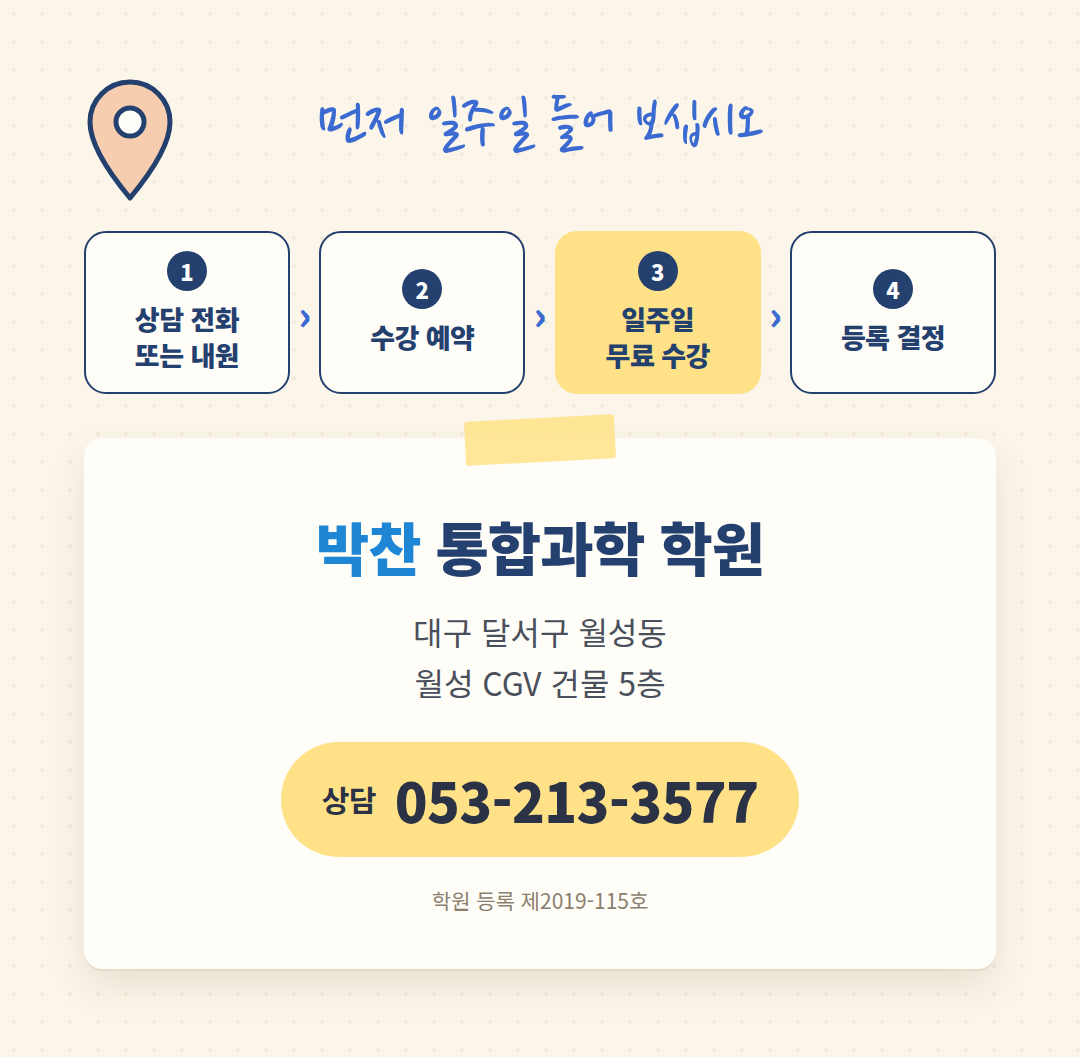
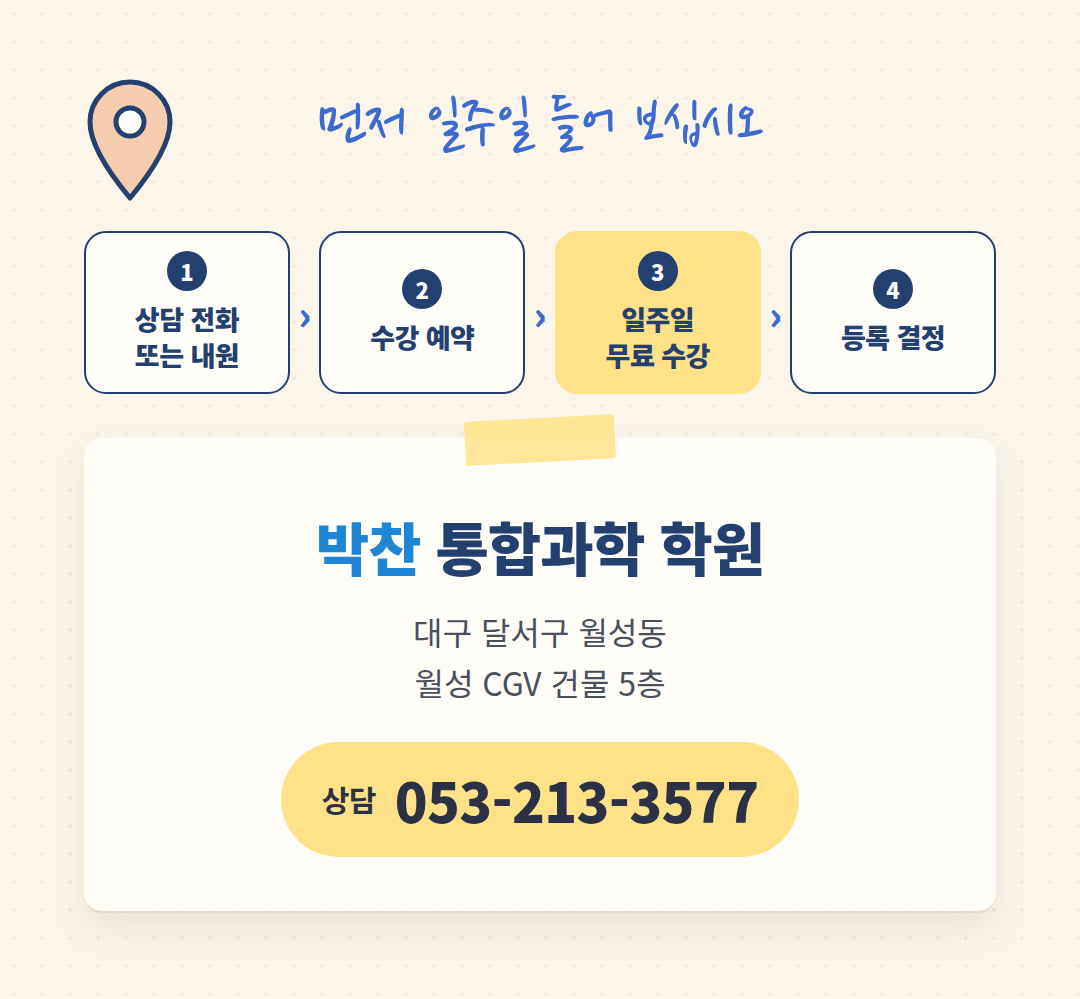
marketing: blog-16 로드맵 화살표·교습비 절·등록번호 빼기
교습비·등록번호는 글 맨 아래 작은 글씨로 따로 넣을 예정(자리 표시만 둠).

Claude-Session: https://claude.ai/code/session_01WC7EVNFFJZDdwaC3HYBAmj

diff --git a/parkchan-science/marketing/blog-16/kit.html b/parkchan-science/marketing/blog-16/kit.html
@@ -169,11 +169,6 @@ mark{background:var(--soft);color:var(--ink);outline:1px solid var(--gold);borde
 
 【사진 7 · 07_free.png】
 
-【소제목 · 인용구】 교습비
-
-고1 예비반 교습비: 월 31만 7,000원 (주 2회)
-학원 등록 제2019-115호
-
 【소제목 · 인용구】 오시는 길
 
 대구 달서구 월성동
@@ -190,7 +185,9 @@ mark{background:var(--soft);color:var(--ink);outline:1px solid var(--gold);borde
 
 감사합니다.
 
-박찬 드림</textarea><button class="cp big" data-copy="bodyTxt">본문 복사</button>
+박찬 드림
+
+【확인 필요 · 맨 아래 작은 글씨: 등록번호 · 총 교습시간 · 교습비 — 원장님 사진 받은 뒤 채움】</textarea><button class="cp big" data-copy="bodyTxt">본문 복사</button>
 <p class="note">【 】 표시 줄은 붙여 넣은 뒤 아래 순서대로 바꿉니다. 확인할 칸은 모두 채웠습니다.</p></section>
 <section class="box"><h2>③ 태그 — 하나씩 입력 후 Enter</h2><div class="tags"><span>월성동과학학원</span><span>대구과학학원</span><span>달서구과학학원</span><span>월성동학원</span><span>월성동통합과학</span><span>대구통합과학학원</span><span>통합과학학원</span><span>고1예비반</span><span>예비고1</span><span>중3과학</span><span>고1통합과학</span><span>통합과학</span><span>과학학원</span><span>월배과학학원</span><span>진천동과학학원</span><span>상인동과학학원</span><span>중등부과학</span><span>고3수능반</span><span>박찬통합과학학원</span></div><button class="cp big" data-copy="tagTxt">태그 복사(띄어쓰기로 구분)</button><textarea id="tagTxt" readonly style="display:none">월성동과학학원 대구과학학원 달서구과학학원 월성동학원 월성동통합과학 대구통합과학학원 통합과학학원 고1예비반 예비고1 중3과학 고1통합과학 통합과학 과학학원 월배과학학원 진천동과학학원 상인동과학학원 중등부과학 고3수능반 박찬통합과학학원</textarea></section>
 <section class="box"><h2>④ 네이버 글쓰기에서</h2><ol class="how">
@@ -239,15 +236,14 @@ mark{background:var(--soft);color:var(--ink);outline:1px solid var(--gold);borde
 <p>먼저 일주일 들어 보시고<br>등록을 결정하셔도 됩니다.<br>수업이 아이에게 맞는지<br>직접 확인해 보십시오.</p>
 <p>① 상담 전화 또는 내원<br>② 수강 예약<br>③ 일주일 무료 수강<br>④ 등록 결정</p>
 <figure><img src="images/07_free.png" alt="일주일 무료 수강 후 등록 · 월성동 월성 CGV 건물 5층 · 053-213-3577"><figcaption>사진 7 · 07_free.png</figcaption></figure>
-<blockquote>교습비</blockquote>
-<p>고1 예비반 교습비: 월 31만 7,000원 (주 2회)<br>학원 등록 제2019-115호</p>
 <blockquote>오시는 길</blockquote>
 <p>대구 달서구 월성동<br>월성 CGV 건물 5층</p>
 <p>상담 문의 <span class="nw">053-213-3577</span></p>
 <div class="place">지도 자리 — 글쓰기 화면의 [장소] 버튼으로 학원 위치를 넣어 주십시오</div>
 <p>처음 만나는 통합과학,<br>아이가 자신 있게 시작할 수 있도록<br>정성껏 준비하겠습니다.<br>편하게 전화 주십시오.</p>
 <p>감사합니다.</p>
-<p>박찬 드림</p></article></section>
+<p>박찬 드림</p>
+<p><mark>【확인 필요 · 맨 아래 작은 글씨: 등록번호 · 총 교습시간 · 교습비 — 원장님 사진 받은 뒤 채움】</mark></p></article></section>
 </div>
 <script>
 document.addEventListener('click', async e => { const b = e.target.closest('button.cp'); if (!b) return;

diff --git a/parkchan-science/marketing/README.md b/parkchan-science/marketing/README.md
@@ -108,3 +108,4 @@
 - (blog-04 파일: `post.txt`·`titles.txt`·`tags.txt`·`kit.html`
 - (blog-03 파일 설명: `post.txt`(본문)·`titles.txt`·`tags.txt`·`kit.html`(복사 도구)) 강좌·교습비 구분은 원장님 확인 대기
 - **글은 짧게(2026-10-10 원장님):** '첫째·둘째'처럼 무게 잡은 긴 절은 가독성을 떨어뜨린다. 보충자료·영상 다시 보기·원장 직강은 '수업은 이렇게 합니다' 한 절에 항목당 한두 줄로만.
+- **교습비·등록번호 표기(2026-10-10 원장님):** 본문·그림에 교습비 절과 '학원 등록 제2019-115호'를 넣지 않는다. 글 맨 아래 작은 글씨 한 줄로만 — 예: '남교입 제2019-115호 · 중등부 21만/26만 7천 원 · 고등부 22만/31만 7천 원' + 총 교습시간(원장님 사진 기준으로 채움). 학원 광고의 교습비 표시 의무 때문에 이 줄은 빠뜨리지 않는다.
